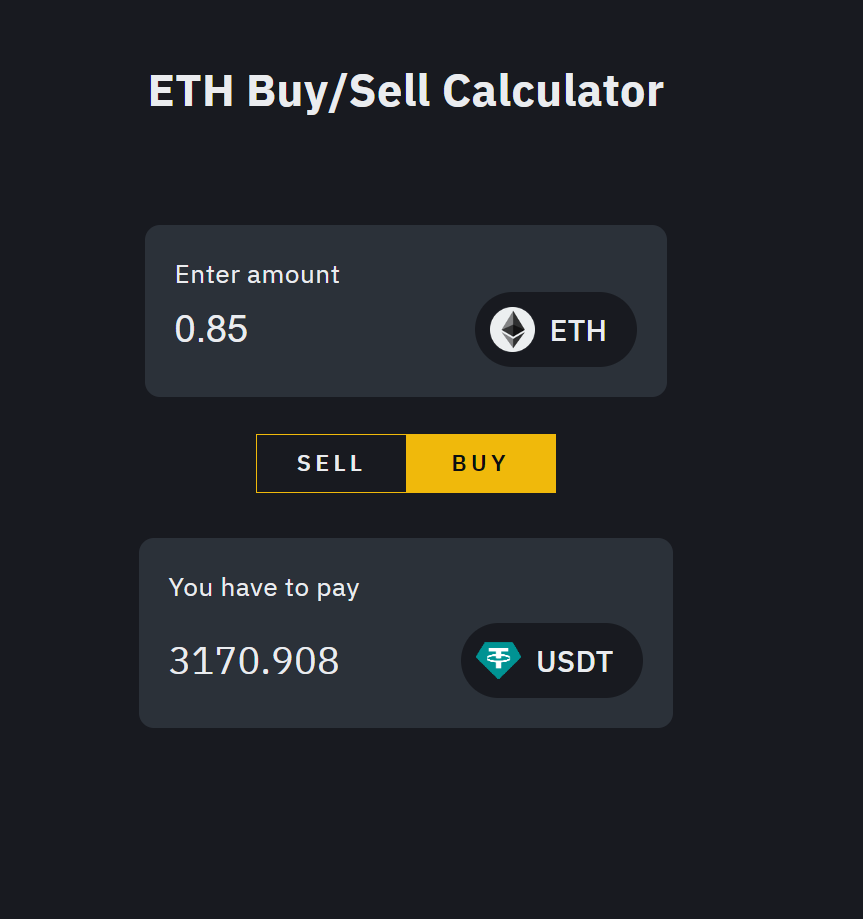
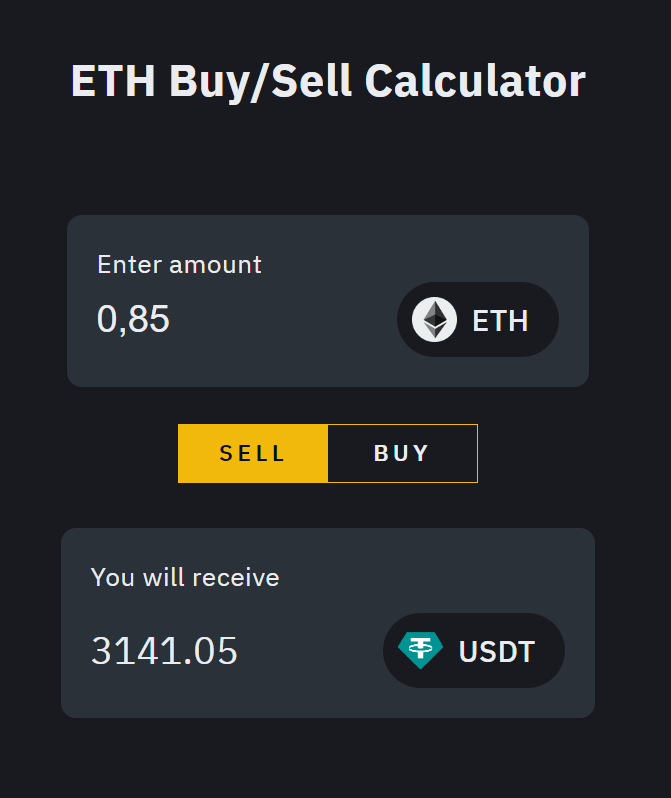
Update Redme

diff --git a/src/App.tsx b/src/App.tsx
@@ -40,9 +40,9 @@ const App: React.FC = () => {
     };
 
     if (action === 'buy') {
-      setUsdtAmount(parseFloat((ethAmount * currentEthPrice).toFixed(8)));
+      setUsdtAmount(parseFloat((ethAmount / currentEthPrice).toFixed(8)));
     } else if (action === 'sell') {
-      setUsdtAmount( parseFloat((ethAmount / currentEthPrice).toFixed(8)));
+      setUsdtAmount( parseFloat((ethAmount * currentEthPrice).toFixed(2)));
     }
   }, [action, currentEthPrice, ethAmount]);
 
